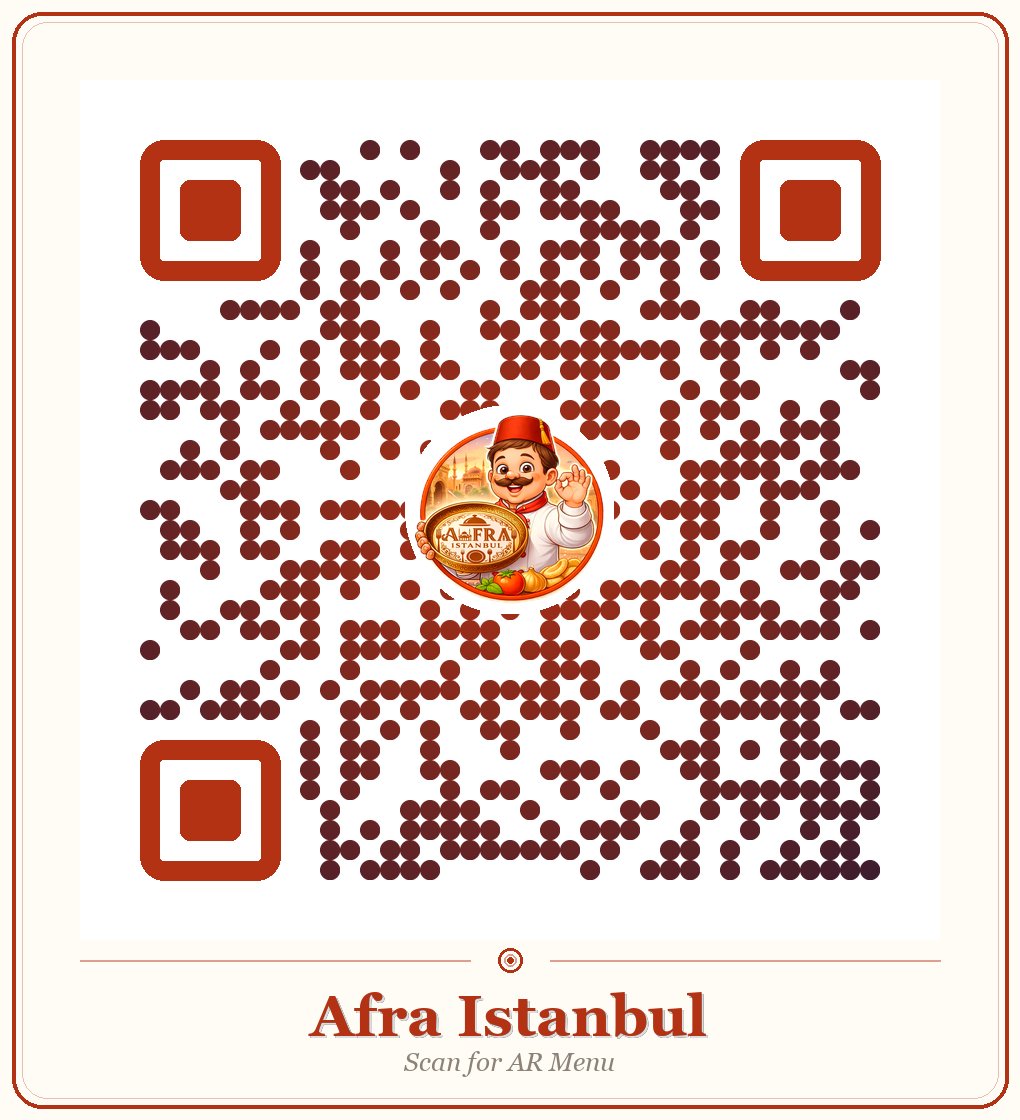
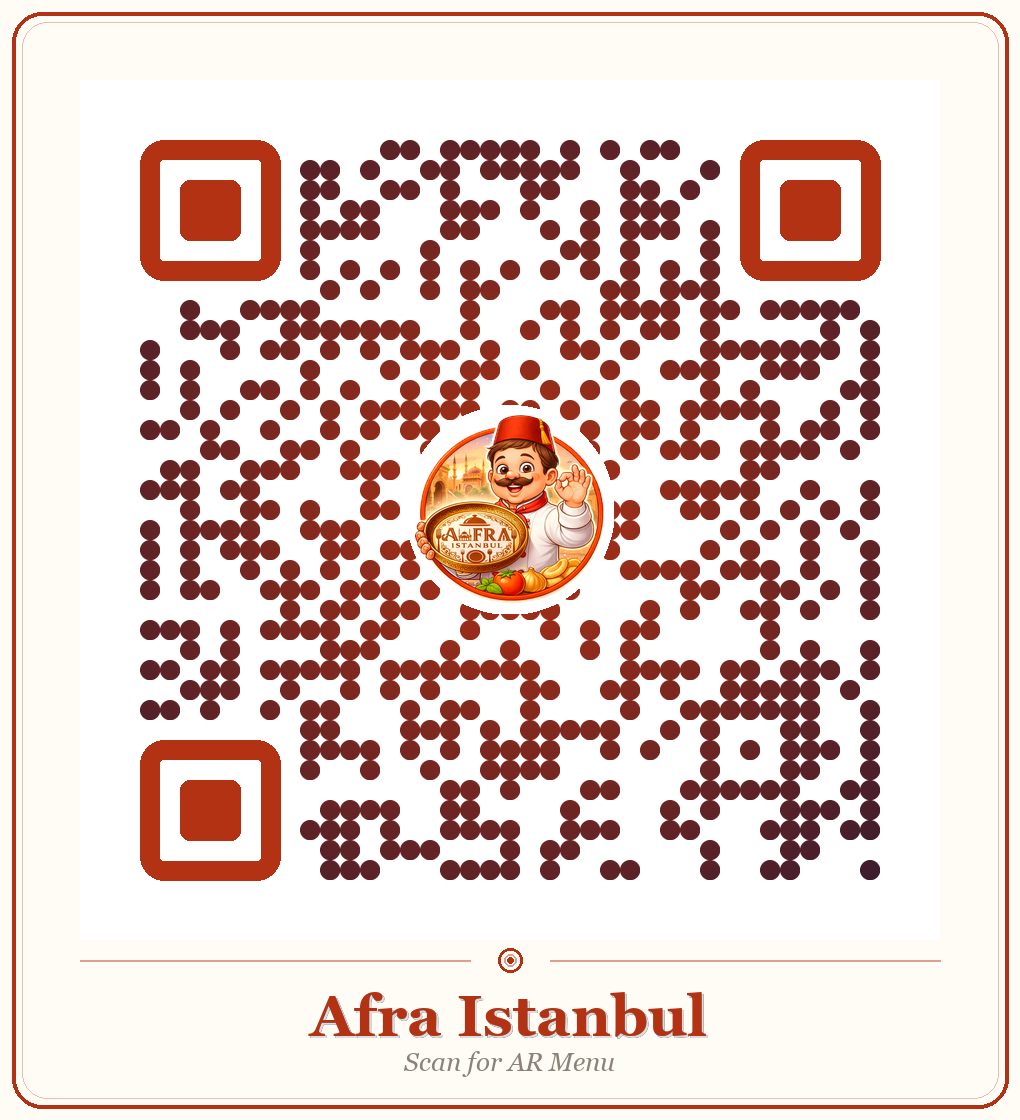
fix QR Afra: стилизованный код вёл на главную вместо меню Afra
На картинке логотип и подпись Afra Istanbul, а внутри был URL главной
страницы (меню MU Steak House). Теперь ведёт на /afra.html.

Changed region(s): [[0.1216, 0.125, 0.8814, 0.8125]]

diff --git a/generate_qr.py b/generate_qr.py
@@ -12,7 +12,7 @@ qr = qrcode.QRCode(
     box_size=20,
     border=3,
 )
-qr.add_data('https://armenu.shumtuber.uz')
+qr.add_data('https://armenu.shumtuber.uz/afra.html')
 qr.make(fit=True)
 
 qr_img = qr.make_image(
